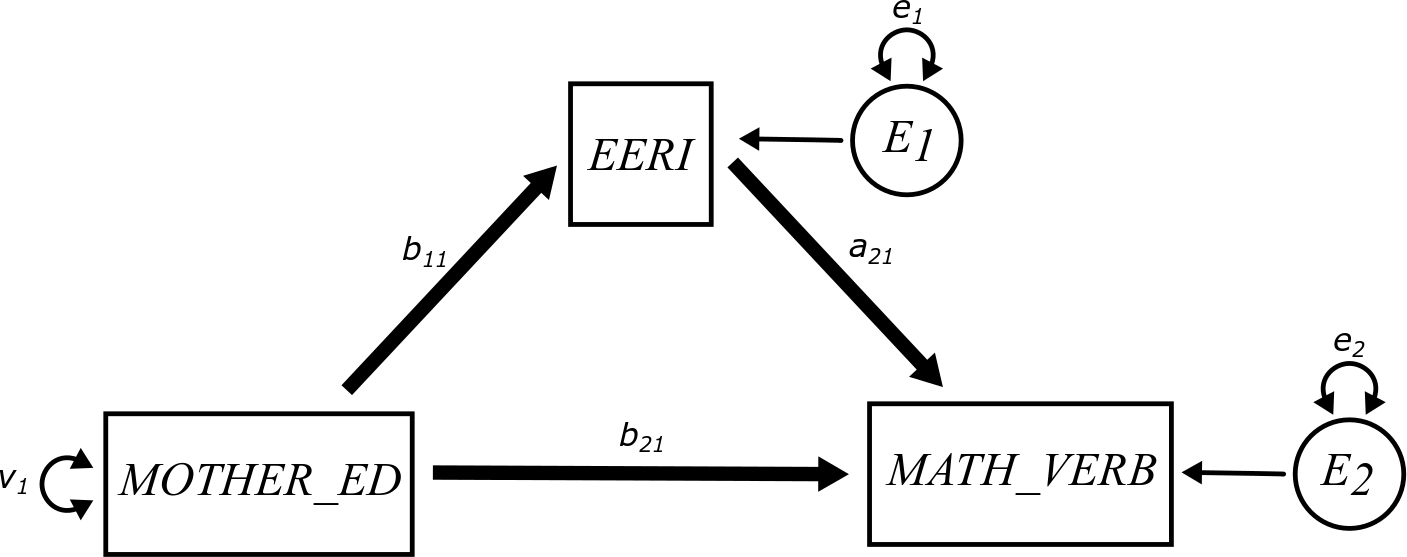
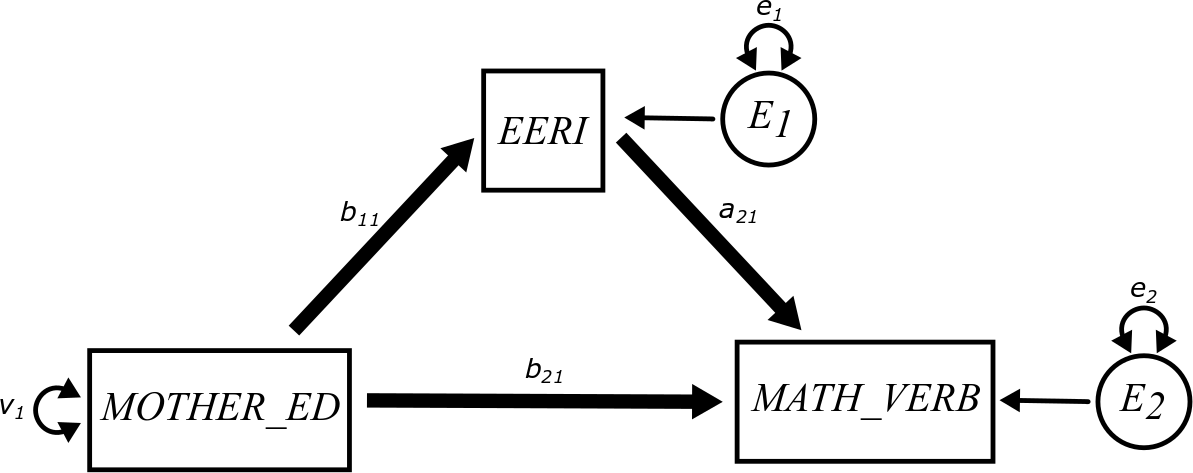
Resize figures

diff --git a/docs/mediation.html b/docs/mediation.html
@@ -683,7 +683,7 @@ X_{1} \boldsymbol{\rightarrow} Y_{1}
 </li>
 </ul>
 <p>The model we propose is the following:</p>
-<div class="inline-figure"><img src="graphics/mediation_nls97.png" width="704" style="display: block; margin: auto;"></div>
+<div class="inline-figure"><img src="graphics/mediation_nls97.png" width="596" style="display: block; margin: auto;"></div>
 <div class="rmdnote">
 <p>Explain the research hypothesis implied by this model. In other words, what relationship is this model trying to study and what role could the mediator possibly play?</p>
 </div>
@@ -759,7 +759,7 @@ Corr(Y_{2}, X_{1})  = b_{21} + a_{21}b_{11}
 <p>Which is stronger in this model, the direct effect or the indirect effect? (For the latter, don’t forget that you need the product of two parameters.)</p>
 </div>
 <p>Here is the final model. It is customary and strongly recommended (though not universally observed) to report both unstandardized and standardized parameters in the model diagram. When both are reported, you’ll often see the standardized estimates appear in parentheses right after the unstandardized ones.</p>
-<div class="inline-figure"><img src="graphics/mediation_nls97_params.png" width="748" style="display: block; margin: auto;"></div>
+<div class="inline-figure"><img src="graphics/mediation_nls97_params.png" width="604" style="display: block; margin: auto;"></div>
 
 </div>
 </div>
